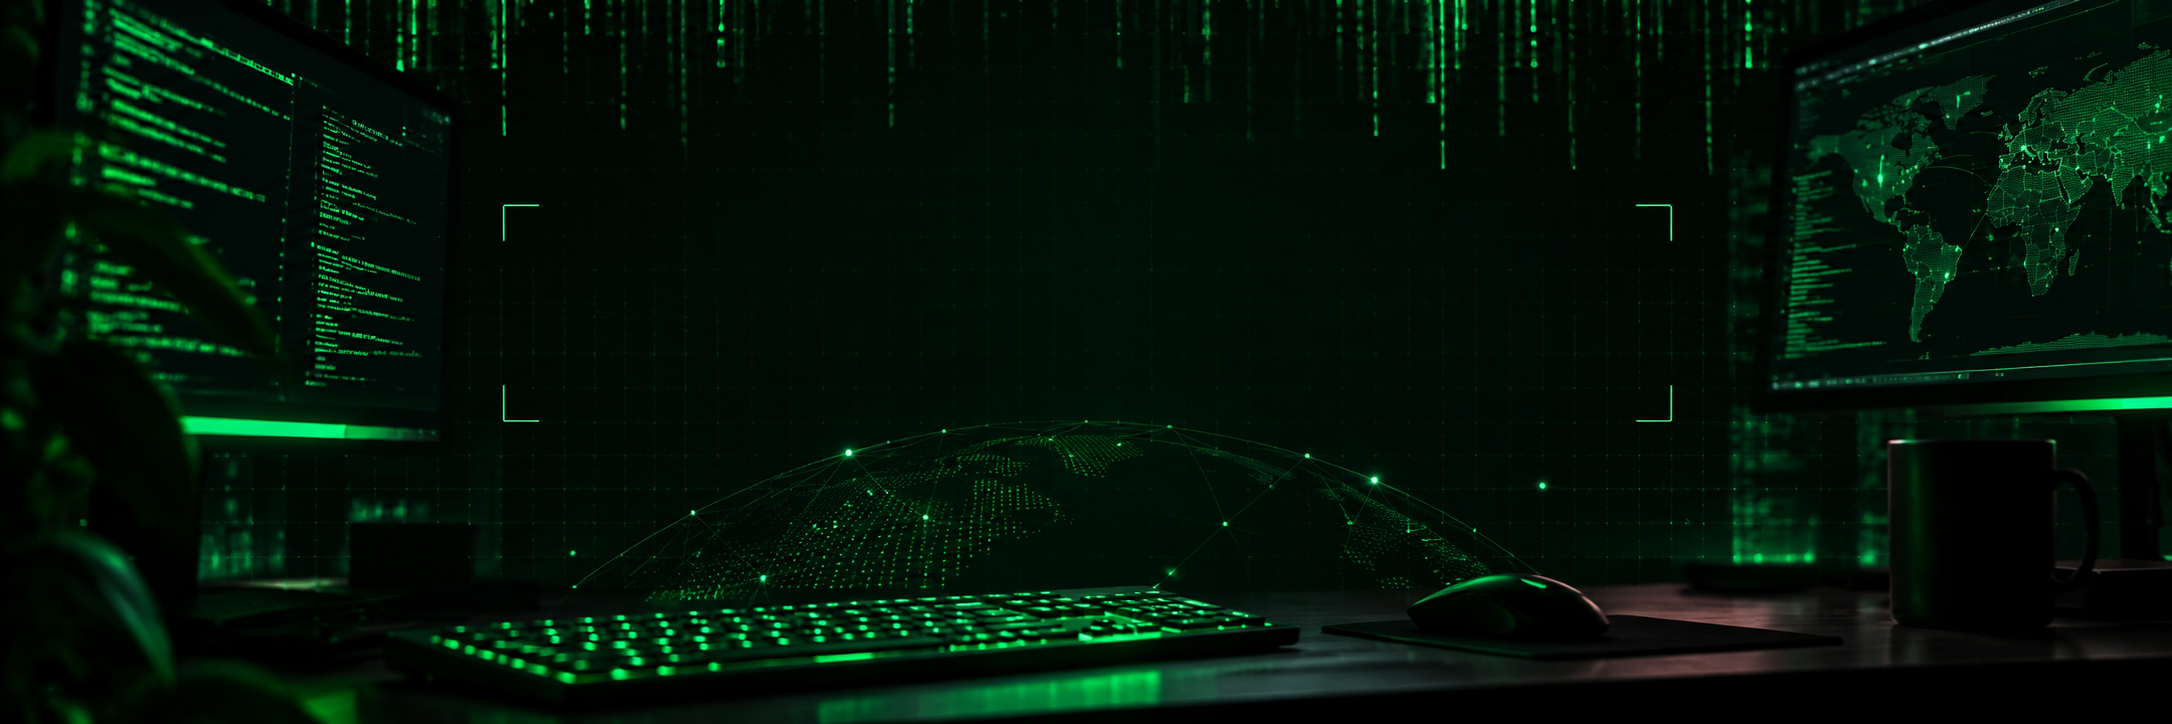
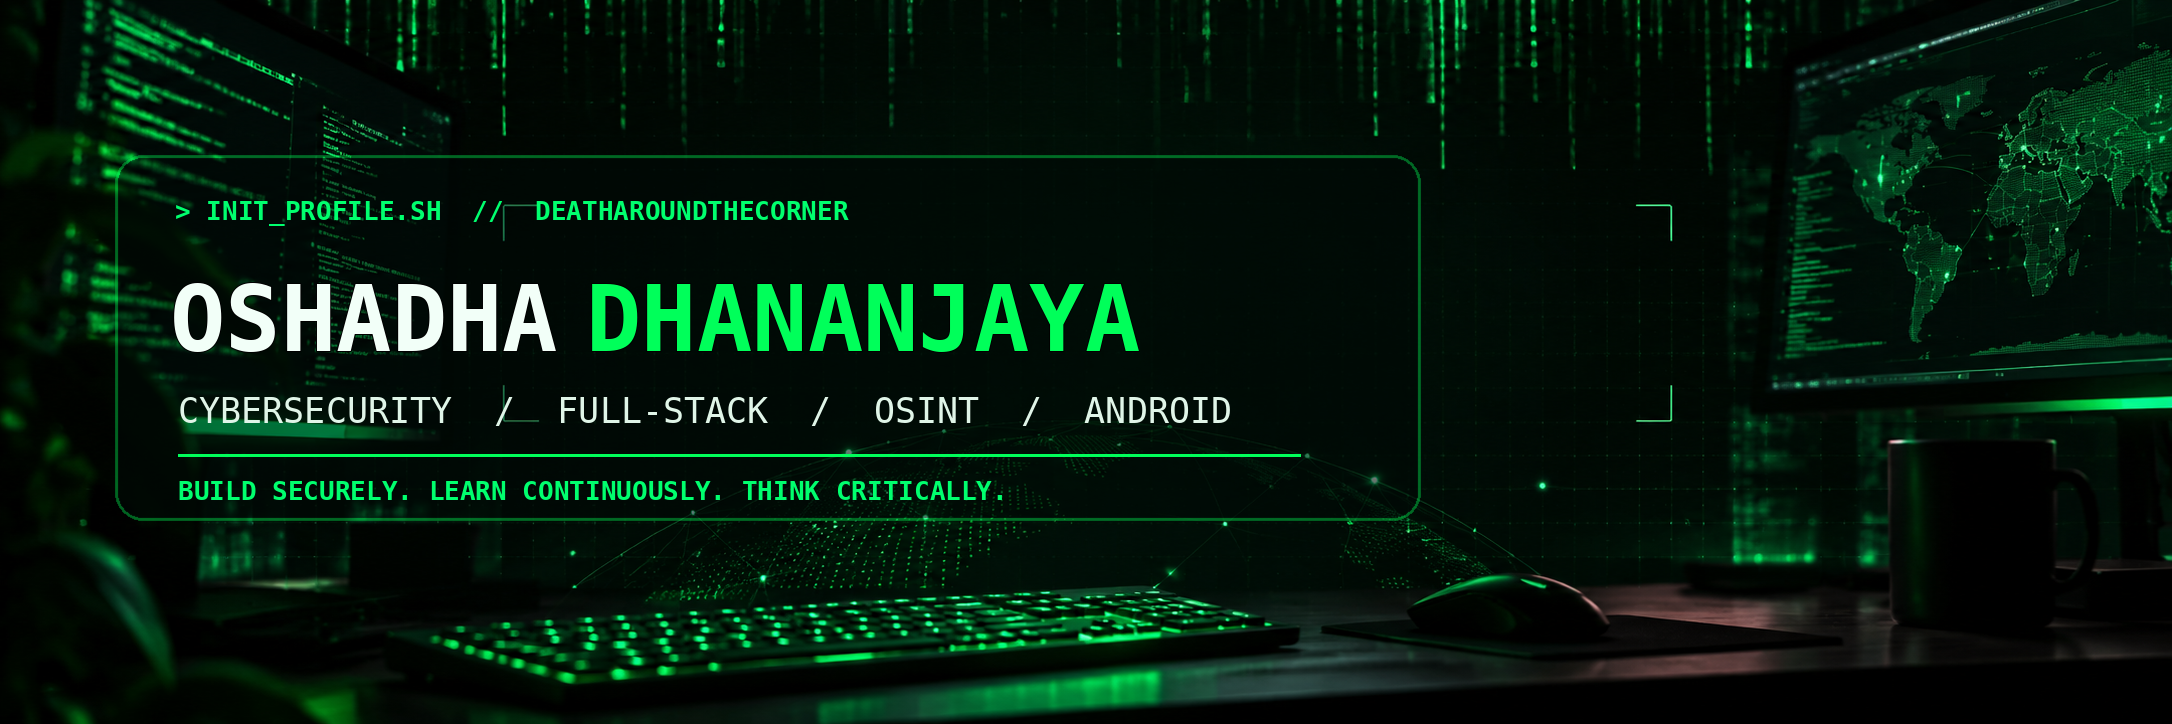
Add files via upload

diff --git a/README.md b/README.md
@@ -1,159 +1,165 @@
-<!--
-  Profile README for: github.com/deatharoundthecorner
-  Keep this profile focused on verifiable projects, practical skills, and ongoing learning.
--->
+<!-- GitHub profile README for @deatharoundthecorner -->
 
 <p align="center">
-  <img src="assets/cyber-banner.png" alt="Dark cyber workspace with green terminal displays" width="100%" />
+  <img src="assets/cyber-banner.png" alt="Neon green cyber workspace banner for Oshadha Dhananjaya" width="100%" />
 </p>
 
 <h1 align="center">OSHADHA DHANANJAYA</h1>
 
 <p align="center">
-  <strong>Cybersecurity Enthusiast · Full-Stack Developer · OSINT Research · Mobile Development</strong>
+  <strong>Cybersecurity Enthusiast&nbsp; · &nbsp;Full-Stack Developer&nbsp; · &nbsp;OSINT Research&nbsp; · &nbsp;Android Development</strong>
 </p>
 
 <p align="center">
-  <a href="https://github.com/deatharoundthecorner">GitHub</a>
-  &nbsp;·&nbsp;
-  <a href="https://www.linkedin.com/in/oshadha-dhananjaya-8b3586364/">LinkedIn</a>
-  &nbsp;·&nbsp;
-  <a href="mailto:danan20040520@gmail.com">Email</a>
-  &nbsp;·&nbsp;
-  <a href="https://orcid.org/0009-0004-1248-680X">ORCID</a>
+  <a href="https://github.com/deatharoundthecorner"><img src="https://img.shields.io/badge/GitHub-Profile-101820?style=for-the-badge&logo=github&logoColor=00ff66" alt="GitHub" /></a>
+  <a href="https://www.linkedin.com/in/oshadha-dhananjaya-8b3586364/"><img src="https://img.shields.io/badge/LinkedIn-Connect-101820?style=for-the-badge&logo=linkedin&logoColor=00ff66" alt="LinkedIn" /></a>
+  <a href="mailto:danan20040520@gmail.com"><img src="https://img.shields.io/badge/Email-Contact-101820?style=for-the-badge&logo=gmail&logoColor=00ff66" alt="Email" /></a>
+  <a href="https://orcid.org/0009-0004-1248-680X"><img src="https://img.shields.io/badge/ORCID-0009--0004--1248--680X-101820?style=for-the-badge&logo=orcid&logoColor=00ff66" alt="ORCID" /></a>
+</p>
+
+<p align="center">
+  <img src="https://img.shields.io/badge/FOCUS-Secure%20Software-07130c?style=flat-square&labelColor=07130c&color=00b84a" alt="Secure software" />
+  <img src="https://img.shields.io/badge/BASED%20IN-Sri%20Lanka-07130c?style=flat-square&labelColor=07130c&color=00b84a" alt="Sri Lanka" />
+  <img src="https://img.shields.io/badge/STATUS-Always%20Learning-07130c?style=flat-square&labelColor=07130c&color=00b84a" alt="Always learning" />
 </p>
 
 ---
 
-## `$ whoami`
+## <code>$ whoami</code>
 
-I'm an Information Systems undergraduate at the **University of Colombo School of Computing (UCSC)** with a strong interest in cybersecurity and software engineering.
+I'm an **Information Systems undergraduate at the University of Colombo School of Computing (UCSC)**. I enjoy building practical software, understanding how systems work, and exploring how security can be considered throughout the development process.
 
-I enjoy understanding how systems work, building useful applications, exploring web security, and learning how to make software more reliable and secure. I learn by experimenting, building practical projects, reading documentation, and improving my work through testing.
+My interests connect **software engineering, web security, networking, OSINT, and Android development**. I learn by building, testing, reading documentation, and improving projects through practical work.
 
-My main areas of interest are:
+> I like understanding what happens behind the interface — from the database and network request to the security decisions that protect the application.
 
-- **Cybersecurity:** web application security, security fundamentals, vulnerability assessment, and ethical research.
-- **Software development:** full-stack applications, APIs, databases, and automation.
-- **Systems:** Linux, networking, C programming, and understanding how software communicates.
-- **Digital investigation:** OSINT methods, information verification, and responsible research.
-- **Mobile development:** Android applications and maintainable application architecture.
+---
 
-## `// Featured engineering work`
+## <code>// Featured engineering work</code>
 
-These projects show the kinds of problems I enjoy working on. Open the repositories for source code, implementation details, and project documentation.
+<table>
+  <tr>
+    <td width="50%" valign="top">
+      <h3>01 · Student Management System</h3>
+      <a href="https://github.com/deatharoundthecorner/STUDENT-MANAGEMENT-SYSTEM-FOR-VTA-"><img src="https://img.shields.io/badge/Python-PySide6-00b84a?style=flat-square&logo=python&logoColor=white" alt="Python and PySide6" /></a>
+      <img src="https://img.shields.io/badge/Database-SQLite-101820?style=flat-square&logo=sqlite&logoColor=white" alt="SQLite" />
+      <p>An offline Windows desktop application for vocational training student administration.</p>
+      <ul>
+        <li>Student records, search, filters, and dashboards</li>
+        <li>Excel / CSV import and report exports</li>
+        <li>Audit history and backup / restore workflows</li>
+      </ul>
+      <p><b>Engineering themes:</b> desktop architecture, relational data, reliability, and secure local workflows.</p>
+      <a href="https://github.com/deatharoundthecorner/STUDENT-MANAGEMENT-SYSTEM-FOR-VTA-">Explore repository ↗</a>
+    </td>
+    <td width="50%" valign="top">
+      <h3>02 · HTTP/1.1 Web Server in C</h3>
+      <img src="https://img.shields.io/badge/Language-C-00b84a?style=flat-square&logo=c&logoColor=white" alt="C" />
+      <img src="https://img.shields.io/badge/Networking-POSIX%20Sockets-101820?style=flat-square" alt="POSIX sockets" />
+      <p>A lightweight educational HTTP server implemented in C using POSIX sockets.</p>
+      <ul>
+        <li>HTTP request / response handling</li>
+        <li>Static file serving and MIME type detection</li>
+        <li>Status-code handling and path-traversal protection</li>
+      </ul>
+      <p><b>Engineering themes:</b> networking, protocols, memory handling, and secure input validation.</p>
+      <a href="https://github.com/deatharoundthecorner/http-server-c">Explore repository ↗</a>
+    </td>
+  </tr>
+  <tr>
+    <td width="50%" valign="top">
+      <h3>03 · Android Text Editor</h3>
+      <img src="https://img.shields.io/badge/Kotlin-Android-00b84a?style=flat-square&logo=kotlin&logoColor=white" alt="Kotlin and Android" />
+      <img src="https://img.shields.io/badge/Storage-Room-101820?style=flat-square" alt="Room" />
+      <p>An Android text editor project with a local version-history subsystem.</p>
+      <ul>
+        <li>MVVM-style presentation structure</li>
+        <li>Room persistence for files and versions</li>
+        <li>Text diffing and version-history concepts</li>
+      </ul>
+      <p><b>Engineering themes:</b> mobile architecture, local persistence, and algorithmic problem solving.</p>
+      <a href="https://github.com/deatharoundthecorner/IS2205-Mobile-Text-Editor">Explore repository ↗</a>
+    </td>
+    <td width="50%" valign="top">
+      <h3>What ties these projects together?</h3>
+      <p>I enjoy working across different layers of software — desktop interfaces, Android applications, databases, and network-level programming.</p>
+      <p>Across these builds, I focus on:</p>
+      <ul>
+        <li>Clear structure and maintainable code</li>
+        <li>Reliable data handling and useful workflows</li>
+        <li>Testing, validation, and security awareness</li>
+        <li>Learning by implementing real features</li>
+      </ul>
+      <a href="https://github.com/deatharoundthecorner?tab=repositories">Browse all repositories ↗</a>
+    </td>
+  </tr>
+</table>
 
-### 01. Student Management System
+---
 
-[**STUDENT-MANAGEMENT-SYSTEM-FOR-VTA**](https://github.com/deatharoundthecorner/STUDENT-MANAGEMENT-SYSTEM-FOR-VTA-)
-
-An offline Windows desktop application for managing student records in vocational training environments.
-
-- Built with **Python, PySide6, and SQLite**.
-- Includes student records, search and filtering, dashboards, and data import/export workflows.
-- Focuses on local data handling, audit history, backup and restore, and practical administration workflows.
-
-**What it demonstrates:** desktop application development, relational data modelling, user workflows, and reliability-focused engineering.
-
-### 02. HTTP/1.1 Web Server in C
-
-[**http-server-c**](https://github.com/deatharoundthecorner/http-server-c)
-
-A lightweight educational HTTP/1.1 server implemented in C using POSIX sockets.
-
-- Handles HTTP requests and responses and serves static files.
-- Detects MIME types and returns relevant HTTP status codes.
-- Includes input checks and path-traversal protections.
-- Uses a Makefile-based build workflow.
-
-**What it demonstrates:** networking fundamentals, socket programming, protocol handling, memory management, and secure input handling.
-
-### 03. Android Text Editor with Version History
-
-[**IS2205-Mobile-Text-Editor**](https://github.com/deatharoundthecorner/IS2205-Mobile-Text-Editor)
-
-An Android text editor project built with Kotlin, with a local version-control subsystem.
-
-- Uses Android and Material components with an MVVM-style structure.
-- Stores file and version information using Room.
-- Includes text-diff and version-history concepts.
-
-**What it demonstrates:** Android development, application architecture, local persistence, and algorithmic problem solving.
+## <code>// Tech stack</code>
 
 <p align="center">
-  <a href="https://github.com/deatharoundthecorner?tab=repositories">Explore all repositories →</a>
+  <img src="https://skillicons.dev/icons?i=python,java,kotlin,php,js,ts,c,html,css,react&perline=10" alt="Programming and web technologies" />
+  <br />
+  <img src="https://skillicons.dev/icons?i=mysql,sqlite,linux,git,github,vscode,androidstudio&perline=10" alt="Databases, systems, and development tools" />
 </p>
 
-## `// Technical toolbox`
+<p align="center"><sub>Tools and technologies I use or am actively learning — icons are not proficiency ratings.</sub></p>
 
-The technologies below are tools I work with or am actively learning. They are not proficiency ratings.
+## <code>// Security & investigation interests</code>
 
-| Area | Technologies |
+<p>
+  <img src="https://img.shields.io/badge/OWASP%20Top%2010-101820?style=for-the-badge&logo=owasp&logoColor=00ff66" alt="OWASP Top 10" />
+  <img src="https://img.shields.io/badge/Nmap-101820?style=for-the-badge&logoColor=00ff66" alt="Nmap" />
+  <img src="https://img.shields.io/badge/Wireshark-101820?style=for-the-badge&logo=wireshark&logoColor=00ff66" alt="Wireshark" />
+  <img src="https://img.shields.io/badge/Burp%20Suite-101820?style=for-the-badge&logoColor=00ff66" alt="Burp Suite" />
+  <img src="https://img.shields.io/badge/OpenSSL-101820?style=for-the-badge&logo=openssl&logoColor=00ff66" alt="OpenSSL" />
+</p>
+
+I'm interested in web application security, authentication and access control, vulnerability assessment, Linux, networking, and responsible OSINT. I use security tools for learning and authorized testing only — never outside an agreed scope.
+
+---
+
+## <code>// Current learning queue</code>
+
+| Track | What I'm working to improve |
 |---|---|
-| **Languages** | Python · Java · Kotlin · PHP · JavaScript · TypeScript · C |
-| **Web** | HTML · CSS · JavaScript · React · REST API concepts |
-| **Databases** | SQLite · MySQL |
-| **Mobile** | Android · Kotlin · Android Studio |
-| **Systems & workflow** | Linux · Networking · Git · GitHub · VS Code |
-| **Security learning** | OWASP Top 10 · Nmap · Wireshark · Burp Suite · OpenSSL |
+| **Web security** | OWASP risks, secure coding, authentication, sessions, and access control |
+| **Full-stack engineering** | Maintainable applications, REST APIs, and database-backed systems |
+| **Systems & networking** | Linux, network fundamentals, and C programming |
+| **Android** | Application architecture, persistence, and maintainable UI flows |
+| **OSINT** | Structured research, source verification, and responsible digital investigation |
 
-## `// Security mindset`
+## <code>// GitHub activity</code>
 
-I'm interested in understanding security issues from both the developer and defender perspectives:
+I prefer showing **actual projects and contribution history** instead of depending on third-party statistic cards that may fail or become rate-limited.
 
-- Learn how web applications handle input, authentication, sessions, and access control.
-- Understand common web security risks and how to reduce them during development.
-- Use tools such as Nmap, Wireshark, and Burp Suite in controlled learning environments.
-- Practise OSINT with publicly available information, careful verification, and respect for privacy.
-
-**Ethics first:** I only test systems when I have clear permission and stay within the agreed scope.
-
-## `// What I'm learning next`
-
-- Strengthening web application security knowledge and secure coding practices.
-- Building and testing full-stack applications and REST APIs.
-- Improving Linux, networking, and systems-programming fundamentals.
-- Exploring Android architecture and maintainable mobile application design.
-- Developing structured OSINT and digital-investigation techniques.
-
-## `// A meaningful look at my GitHub`
-
-I prefer showing real work over relying on third-party score cards that can disappear, become rate-limited, or show stale data.
-
-- **Project evidence:** the repositories above contain the code, documentation, and implementation details.
-- **Contribution history:** GitHub's own contribution calendar is displayed below this README on my profile.
-- **Current direction:** software engineering with a security-first mindset.
-
-<p align="center">
-  <em>Consistency matters more than a score. The goal is to keep building, learning, and improving.</em>
-</p>
-
-## `// Contribution snake`
+- The featured repositories above show practical work across desktop, networking, and Android development.
+- GitHub's native contribution calendar appears below this README on my profile.
+- The contribution snake below is generated by this repository's GitHub Actions workflow.
 
 <p align="center">
   <picture>
     <source media="(prefers-color-scheme: dark)" srcset="https://raw.githubusercontent.com/deatharoundthecorner/deatharoundthecorner/output/github-contribution-grid-snake-dark.svg" />
     <source media="(prefers-color-scheme: light)" srcset="https://raw.githubusercontent.com/deatharoundthecorner/deatharoundthecorner/output/github-contribution-grid-snake.svg" />
-    <img src="https://raw.githubusercontent.com/deatharoundthecorner/deatharoundthecorner/output/github-contribution-grid-snake.svg" alt="Animated snake moving across the GitHub contribution grid" width="100%" />
+    <img src="https://raw.githubusercontent.com/deatharoundthecorner/deatharoundthecorner/output/github-contribution-grid-snake.svg" alt="Animated contribution snake" width="100%" />
   </picture>
 </p>
 
-<p align="center"><sub>The animation appears after the GitHub Actions workflow in this repository runs successfully.</sub></p>
+---
 
-## `// Find me`
+## <code>// Connect</code>
 
 <p align="center">
-  <a href="https://github.com/deatharoundthecorner">GitHub</a>
-  &nbsp;·&nbsp;
-  <a href="https://www.linkedin.com/in/oshadha-dhananjaya-8b3586364/">LinkedIn</a>
-  &nbsp;·&nbsp;
-  <a href="mailto:danan20040520@gmail.com">Email</a>
-  &nbsp;·&nbsp;
+  <a href="https://github.com/deatharoundthecorner">GitHub</a> &nbsp; · &nbsp;
+  <a href="https://www.linkedin.com/in/oshadha-dhananjaya-8b3586364/">LinkedIn</a> &nbsp; · &nbsp;
+  <a href="mailto:danan20040520@gmail.com">Email</a> &nbsp; · &nbsp;
   <a href="https://orcid.org/0009-0004-1248-680X">ORCID</a>
 </p>
 
 <p align="center">
-  <strong>Build securely. Learn continuously. Think critically.</strong>
+  <strong>BUILD SECURELY. LEARN CONTINUOUSLY. THINK CRITICALLY.</strong>
+  <br />
+  <sub>Ethical research · Practical development · Continuous learning</sub>
 </p>
-
-<p align="center"><sub>Ethical research · Practical development · Continuous learning</sub></p>

diff --git a/SETUP.md b/SETUP.md
@@ -1,47 +1,17 @@
-# GitHub profile README — setup guide
+# Publish the GitHub profile README
 
-This profile kit is for `github.com/deatharoundthecorner`.
+1. Open https://github.com/deatharoundthecorner/deatharoundthecorner.
+2. Replace the repository's `README.md` with this package's `README.md`.
+3. Upload `assets/cyber-banner.png` to the repository path `assets/cyber-banner.png`.
+4. Create or replace `.github/workflows/snake.yml` using the workflow supplied here.
+5. Commit all changes to the default branch (usually `main`).
+6. In **Settings → Actions → General → Workflow permissions**, allow **Read and write permissions**.
+7. Open **Actions → Generate contribution snake → Run workflow**. Wait for the run to complete and confirm that an `output` branch appears containing the generated SVG files.
 
-## Files in this kit
+The README's banner is a local repository image, so it does not depend on an external image host. The snake will not appear until the workflow has run successfully at least once. GitHub's own contribution calendar is shown separately below the profile README.
 
-```text
-README.md
-SETUP.md
-assets/
-  cyber-banner.png
-.github/
-  workflows/
-    snake.yml
-```
+## Files
 
-## Upload using the GitHub website
-
-1. Extract the ZIP file on your computer.
-2. Open <https://github.com/deatharoundthecorner/deatharoundthecorner>.
-3. Select **Add file → Upload files**.
-4. Upload `README.md`, `SETUP.md`, the `assets` folder, and the `.github` folder from the extracted kit.
-5. Keep the folder paths unchanged. In particular, the workflow must be at `.github/workflows/snake.yml`.
-6. Scroll down, enter a commit message such as `Refresh profile README`, and select **Commit changes**.
-
-If GitHub's browser uploader does not preserve a hidden `.github` folder when you drag it in, create the folders in the repository using **Add file → Create new file** and enter `.github/workflows/snake.yml` as the filename. Paste the contents from the matching file in this kit.
-
-## Activate the contribution snake
-
-1. Open the profile repository's **Settings → Actions → General**.
-2. Under **Workflow permissions**, select **Read and write permissions** and save if required.
-3. Open the **Actions** tab.
-4. Choose **Generate contribution snake** from the workflow list.
-5. Select **Run workflow** and run it on the default branch.
-6. Wait for the run to finish successfully. It creates or updates the `output` branch with the SVG images.
-
-The snake image will be blank or broken until the first successful run creates those files. The workflow also runs once per day automatically.
-
-## Why the stats cards were removed
-
-The old README used third-party GitHub statistics and activity-graph image services. Those services can be unavailable, rate-limited, or return empty images. This version avoids those fragile score cards and instead highlights three real repositories, their engineering focus, and GitHub's own contribution calendar, which already appears below the profile README on the profile page.
-
-## Before publishing
-
-- Confirm that the email and LinkedIn links are the contact details you want to make public.
-- Remove or edit any technology you do not use or are not actively learning.
-- Pin your strongest repositories on your GitHub profile so visitors can find the projects quickly.
+- `README.md` — the profile content.
+- `assets/cyber-banner.png` — custom neon-green cyber banner.
+- `.github/workflows/snake.yml` — contribution snake automation.
